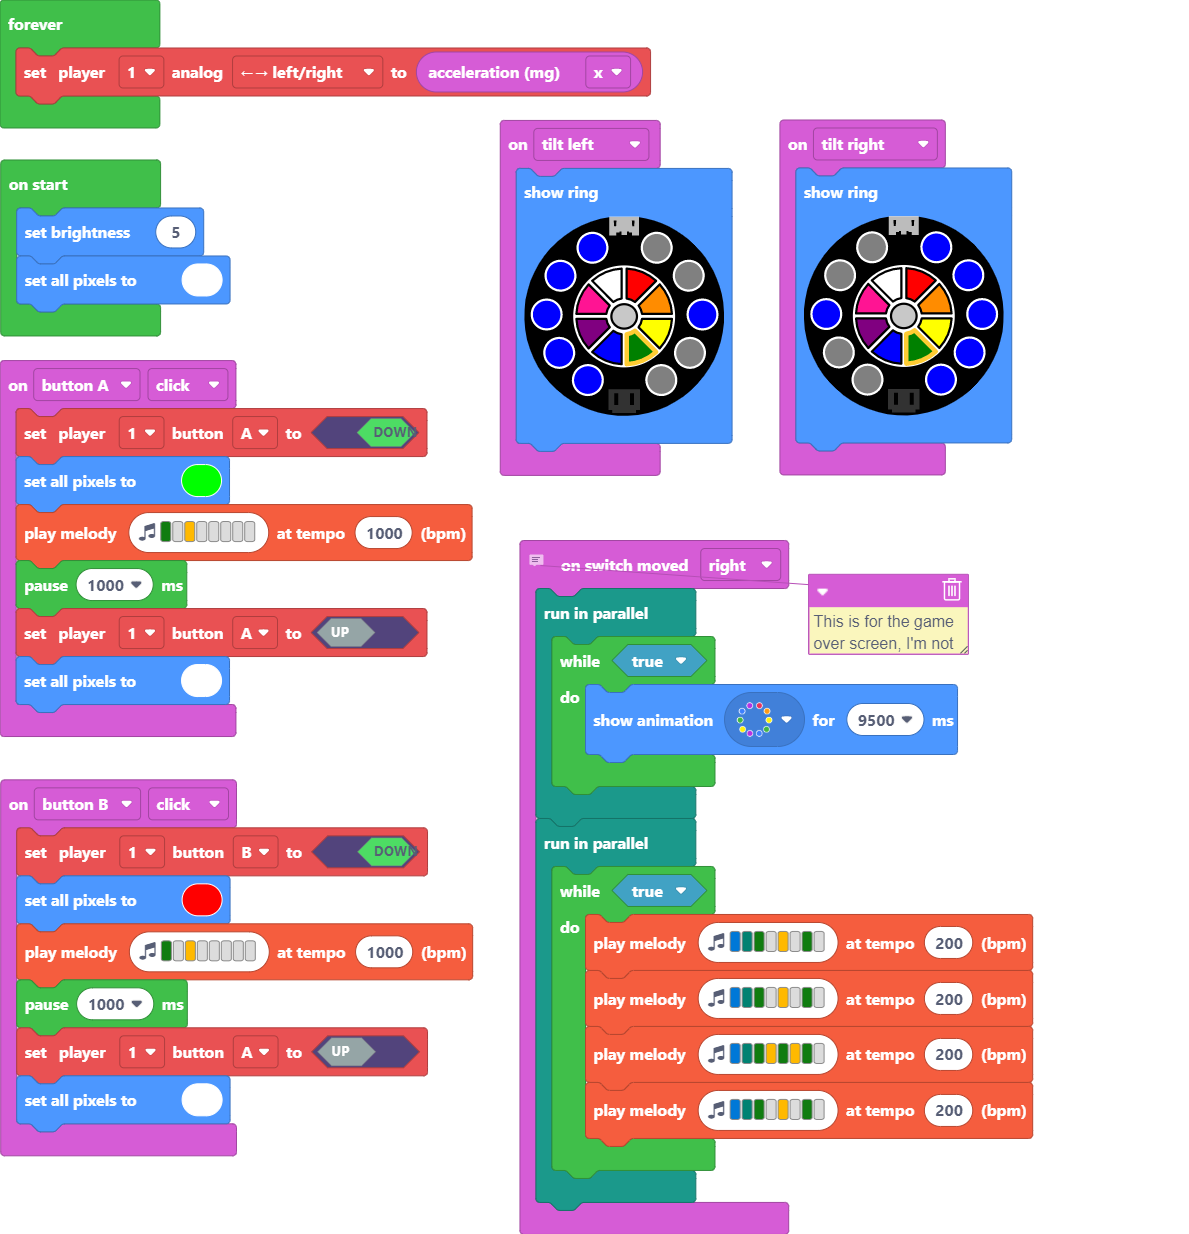
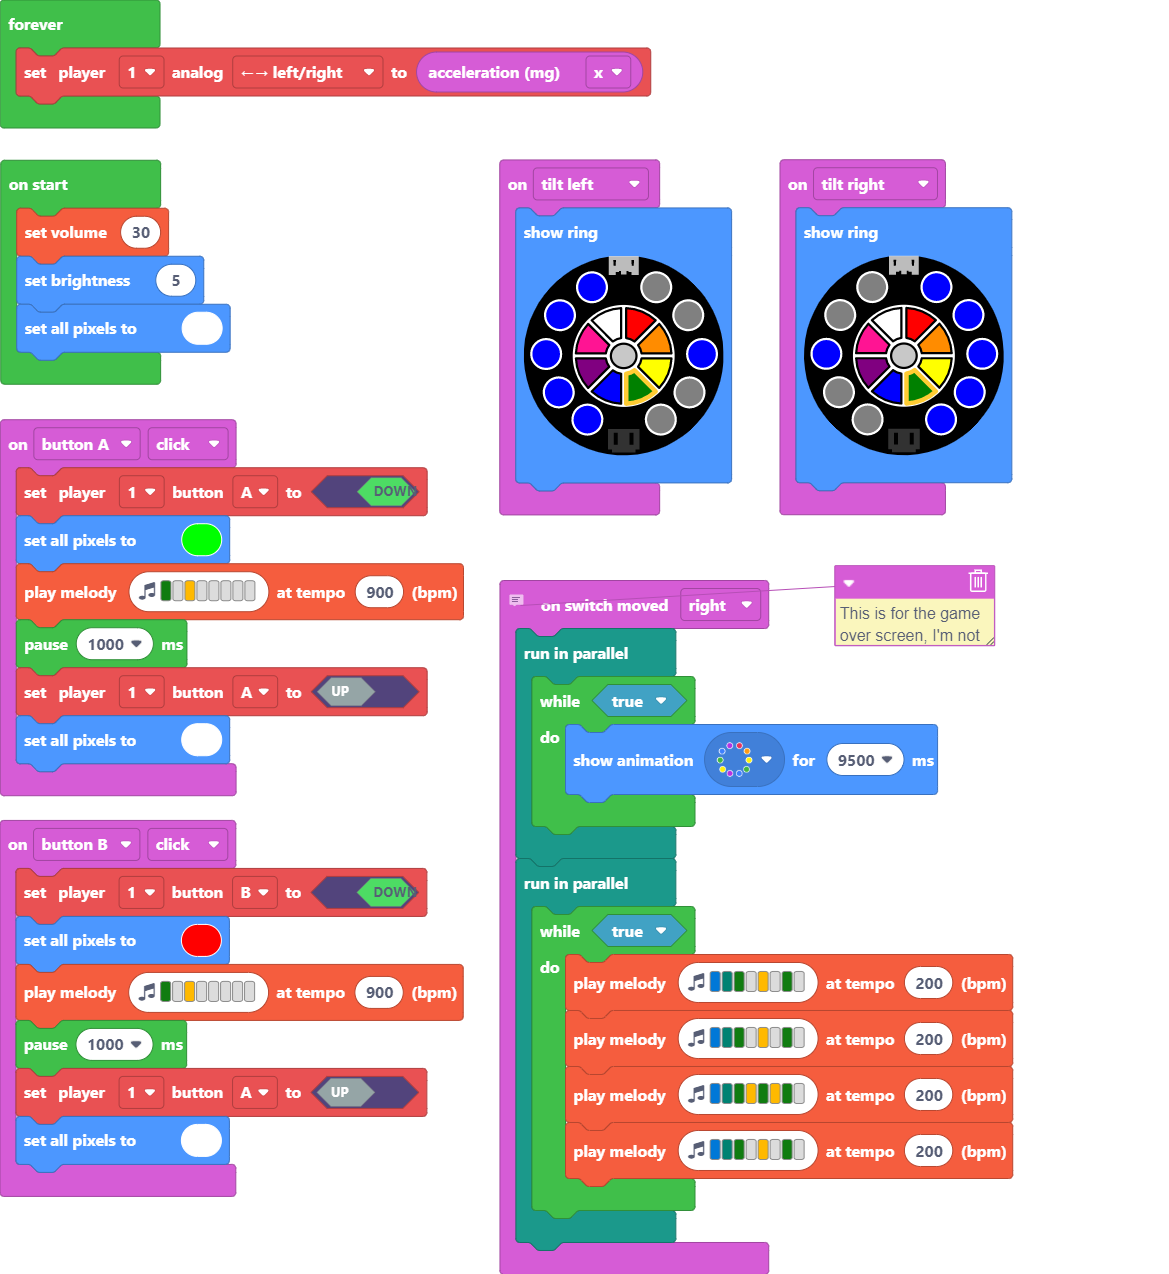
Update main.blocks, main.ts

diff --git a/main.ts b/main.ts
@@ -22,7 +22,7 @@ input.onGesture(Gesture.TiltLeft, function () {
 input.buttonA.onEvent(ButtonEvent.Click, function () {
     makerController.player1.setButton(ArcadeButton.A, true)
     light.setAll(0x00ff00)
-    music.playMelody("G - A - - - - - ", 1000)
+    music.playMelody("G - A - - - - - ", 900)
     pause(1000)
     makerController.player1.setButton(ArcadeButton.A, false)
     light.setAll(0xffffff)
@@ -35,11 +35,12 @@ input.onGesture(Gesture.TiltRight, function () {
 input.buttonB.onEvent(ButtonEvent.Click, function () {
     makerController.player1.setButton(ArcadeButton.B, true)
     light.setAll(0xff0000)
-    music.playMelody("G - A - - - - - ", 1000)
+    music.playMelody("G - A - - - - - ", 900)
     pause(1000)
     makerController.player1.setButton(ArcadeButton.A, false)
     light.setAll(0xffffff)
 })
+music.setVolume(30)
 light.setBrightness(5)
 light.setAll(0xffffff)
 forever(function () {
